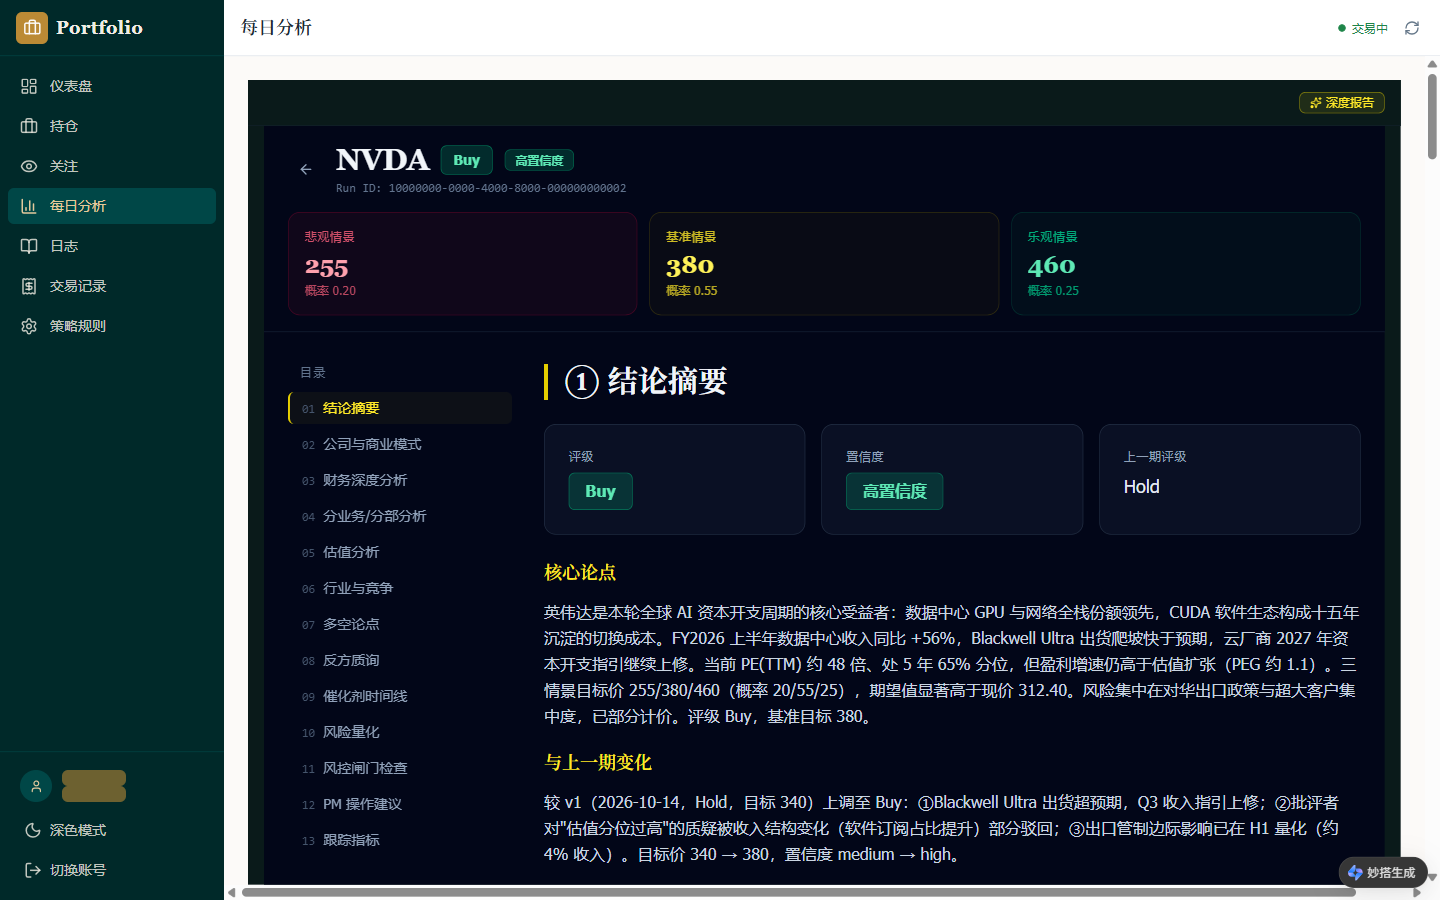
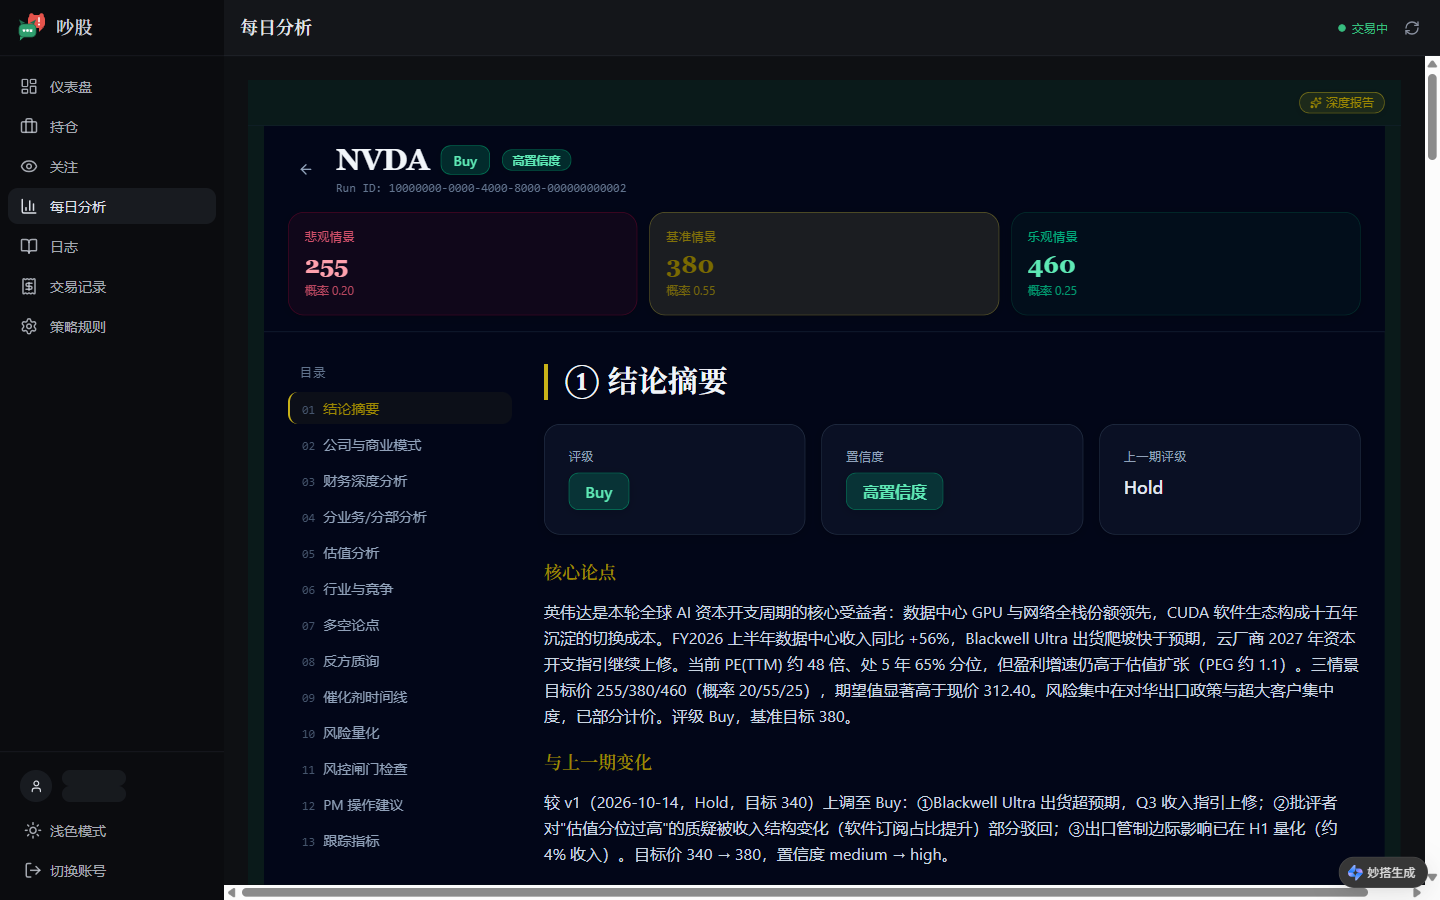
feat(theme): dark-first design system overhaul with Squabble brand language
- Full design-token rewrite: cool gray-blue neutrals replace the
  beige/amber platform palette; monochrome ink primary keeps color
  reserved for market semantics (bull green / bear red)
- Dark is now the first-class default theme (persisted preference
  still honored); light theme refined into a cool-paper palette with
  a light sidebar instead of the heavy dark-teal one
- Lark font stack replaced with Inter + system CJK; tabular numerals
  utility added for financial figures; radius raised to 0.75rem with
  softened layered shadows
- Sidebar brand block: Squabble logo mark + 吵股 wordmark replace the
  generic briefcase/Portfolio header
- RatingBadge carries brand mascots: bull glyph (horns) on bullish
  ratings, bear glyph (round ears) on bearish ones — miniature logo
  bubbles
- README screenshots retaken on the new dark theme

diff --git a/client/src/tailwind-theme.css b/client/src/tailwind-theme.css
@@ -1,138 +1,149 @@
 /**
  * @file client/src/tailwind-theme.css
- * @description Design-token layer (CSS variables) for light/dark themes:
- * colors (background/foreground/muted/border/success/warning/destructive),
- * button/badge outlines, elevation shadows, and radius. Consumed by the
- * Tailwind preset via HSL/OKLCH variable references.
+ * @description Design-token layer (CSS variables) for light/dark themes.
+ *
+ * 吵股 Squabble design language:
+ *  - Monochrome ink primary (near-white on dark, near-black on light) keeps the
+ *    interface calm; color is reserved for market semantics.
+ *  - Bull green / bear red are the brand's semantic pair — use them only for
+ *    market up/down and rating outcomes.
+ *  - Cool gray-blue neutrals (hue 220-222), 0.75rem radius, soft layered
+ *    shadows. Dark is the first-class theme.
  */
 :root {
-  --button-outline: rgba(0,0,0, .10);
-  --badge-outline: rgba(0,0,0, .05);
+  --button-outline: rgba(0, 0, 0, 0.1);
+  --badge-outline: rgba(0, 0, 0, 0.05);
   --opaque-button-border-intensity: -8;
-  --elevate-1: rgba(0,0,0, .03);
-  --elevate-2: rgba(0,0,0, .08);
+  --elevate-1: rgba(0, 0, 0, 0.03);
+  --elevate-2: rgba(0, 0, 0, 0.07);
 
-  --background: hsl(40 33% 98%);
-  --foreground: hsl(210 25% 16%);
+  /* ---- Light: cool paper ---- */
+  --background: hsl(220 20% 97%);
+  --foreground: hsl(221 24% 13%);
   --card: hsl(0 0% 100%);
-  --card-foreground: hsl(210 25% 16%);
+  --card-foreground: hsl(221 24% 13%);
   --popover: hsl(0 0% 100%);
-  --popover-foreground: hsl(210 25% 16%);
-  --primary: hsl(38 56% 47%);
-  --primary-foreground: hsl(40 33% 98%);
-  --secondary: hsl(210 20% 96%);
-  --secondary-foreground: hsl(210 25% 16%);
-  --muted: hsl(210 20% 96%);
-  --muted-foreground: hsl(210 15% 47%);
-  --accent: hsl(38 56% 47%);
-  --accent-foreground: hsl(40 33% 98%);
-  --info: hsl(210 100% 50%);
+  --popover-foreground: hsl(221 24% 13%);
+  --primary: hsl(221 26% 12%);
+  --primary-foreground: hsl(220 25% 98%);
+  --secondary: hsl(220 16% 94%);
+  --secondary-foreground: hsl(221 20% 18%);
+  --muted: hsl(220 16% 94.5%);
+  --muted-foreground: hsl(220 11% 42%);
+  --accent: hsl(220 16% 93.5%);
+  --accent-foreground: hsl(221 24% 13%);
+  --info: hsl(212 90% 48%);
   --info-foreground: hsl(0 0% 100%);
-  --destructive: hsl(0 72% 51%);
+  --destructive: hsl(0 68% 47%);
   --destructive-foreground: hsl(0 0% 100%);
-  --success: hsl(145 63% 32%);
-  --success-foreground: hsl(115 77% 97%);
-  --warning: hsl(26 90% 49%);
-  --warning-foreground: hsl(33 100% 96%);
-  --border: hsl(210 20% 88%);
-  --input: hsl(210 20% 88%);
-  --ring: hsl(38 56% 47%);
-  --chart-1: hsl(38 56% 47%);
-  --chart-2: hsl(174 77% 46%);
-  --chart-3: hsl(145 63% 42%);
-  --chart-4: hsl(0 72% 51%);
-  --chart-5: hsl(26 90% 49%);
+  --success: hsl(152 58% 36%);
+  --success-foreground: hsl(150 60% 97%);
+  --warning: hsl(32 92% 44%);
+  --warning-foreground: hsl(36 100% 97%);
+  --border: hsl(220 15% 89.5%);
+  --input: hsl(220 15% 89.5%);
+  --ring: hsl(221 22% 42%);
+  --chart-1: hsl(152 55% 40%);
+  --chart-2: hsl(215 60% 50%);
+  --chart-3: hsl(32 90% 48%);
+  --chart-4: hsl(0 66% 50%);
+  --chart-5: hsl(265 55% 58%);
 
-  --sidebar: hsl(180 100% 8%);
-  --sidebar-foreground: hsl(40 33% 92%);
-  --sidebar-primary: hsl(38 56% 47%);
-  --sidebar-primary-foreground: hsl(180 100% 8%);
-  --sidebar-accent: hsl(180 100% 14%);
-  --sidebar-accent-foreground: hsl(38 56% 75%);
-  --sidebar-border: hsl(180 100% 14%);
-  --sidebar-ring: hsl(38 56% 47%);
+  /* Light mode uses a light sidebar that sits with the surface, not against it */
+  --sidebar: hsl(220 18% 96%);
+  --sidebar-foreground: hsl(221 18% 24%);
+  --sidebar-primary: hsl(221 26% 12%);
+  --sidebar-primary-foreground: hsl(220 25% 98%);
+  --sidebar-accent: hsl(220 15% 90.5%);
+  --sidebar-accent-foreground: hsl(221 24% 14%);
+  --sidebar-border: hsl(220 15% 89%);
+  --sidebar-ring: hsl(221 22% 42%);
 
-  --primary-border: hsl(from hsl(38 56% 47%) h s calc(l + var(--opaque-button-border-intensity)));
-  --secondary-border: hsl(from hsl(210 20% 96%) h s calc(l + var(--opaque-button-border-intensity)));
-  --destructive-border: hsl(from hsl(0 72% 51%) h s calc(l + var(--opaque-button-border-intensity)));
-  --accent-border: hsl(from hsl(210 20% 96%) h s calc(l + var(--opaque-button-border-intensity)));
-  --muted-border: hsl(from hsl(210 20% 96%) h s calc(l + var(--opaque-button-border-intensity)));
+  --primary-border: hsl(from hsl(221 26% 12%) h s calc(l + var(--opaque-button-border-intensity)));
+  --secondary-border: hsl(from hsl(220 16% 94%) h s calc(l + var(--opaque-button-border-intensity)));
+  --destructive-border: hsl(from hsl(0 68% 47%) h s calc(l + var(--opaque-button-border-intensity)));
+  --accent-border: hsl(from hsl(220 16% 93.5%) h s calc(l + var(--opaque-button-border-intensity)));
+  --muted-border: hsl(from hsl(220 16% 94.5%) h s calc(l + var(--opaque-button-border-intensity)));
 
   --font-sans:
-    'LarkHackSafariFont', 'LarkEmojiFont', 'LarkChineseQuote', '-apple-system',
-    'BlinkMacSystemFont', 'Helvetica Neue', 'Tahoma', 'PingFang SC',
-    'Microsoft Yahei', 'Arial', 'Hiragino Sans GB', 'sans-serif',
+    'Inter', 'Inter var', '-apple-system', 'BlinkMacSystemFont', 'Segoe UI',
+    'PingFang SC', 'HarmonyOS Sans SC', 'MiSans', 'Microsoft YaHei UI',
+    'Microsoft YaHei', 'Noto Sans SC', 'Helvetica Neue', 'Tahoma', 'Arial',
+    'sans-serif',
     'Apple Color Emoji', 'Segoe UI Emoji', 'Segoe UI Symbol', 'Noto Color Emoji';
   --font-serif:
     'Playfair Display', 'Georgia', 'Cambria', 'Times New Roman', Times, serif;
   --font-mono:
     'JetBrains Mono', 'SF Mono', 'Menlo', 'Monaco', 'Consolas', monospace;
 
-  --radius: 0.5rem;
+  --radius: 0.75rem;
   --shadow-x: 0px;
   --shadow-y: 2px;
   --shadow-blur: 12px;
   --shadow-spread: 0px;
   --shadow-opacity: 0.02;
   --shadow-color: #000000;
-  --shadow-2xs: 0px 2px 12px 0px hsl(0 0% 0% / 0.01);
-  --shadow-xs: 0px 2px 12px 0px hsl(0 0% 0% / 0.01);
+  --shadow-2xs: 0px 2px 12px 0px hsl(0 0% 0% / 0.02);
+  --shadow-xs: 0px 2px 12px 0px hsl(0 0% 0% / 0.02);
   --shadow-sm:
-    0px 2px 12px 0px hsl(0 0% 0% / 0.02), 0px 1px 2px -1px hsl(0 0% 0% / 0.02);
+    0px 2px 12px 0px hsl(0 0% 0% / 0.03), 0px 1px 2px -1px hsl(0 0% 0% / 0.03);
   --shadow:
-    0px 2px 12px 0px hsl(0 0% 0% / 0.02), 0px 1px 2px -1px hsl(0 0% 0% / 0.02);
+    0px 2px 12px 0px hsl(0 0% 0% / 0.03), 0px 1px 2px -1px hsl(0 0% 0% / 0.03);
   --shadow-md:
-    0px 2px 12px 0px hsl(0 0% 0% / 0.02), 0px 2px 4px -1px hsl(0 0% 0% / 0.02);
+    0px 2px 12px 0px hsl(0 0% 0% / 0.03), 0px 2px 4px -1px hsl(0 0% 0% / 0.03);
   --shadow-lg:
-    0px 2px 12px 0px hsl(0 0% 0% / 0.02), 0px 4px 6px -1px hsl(0 0% 0% / 0.02);
+    0px 2px 12px 0px hsl(0 0% 0% / 0.04), 0px 4px 6px -1px hsl(0 0% 0% / 0.03);
   --shadow-xl:
-    0px 2px 12px 0px hsl(0 0% 0% / 0.02), 0px 8px 10px -1px hsl(0 0% 0% / 0.02);
-  --shadow-2xl: 0px 2px 12px 0px hsl(0 0% 0% / 0.05);
+    0px 2px 12px 0px hsl(0 0% 0% / 0.04), 0px 8px 10px -1px hsl(0 0% 0% / 0.03);
+  --shadow-2xl: 0px 2px 12px 0px hsl(0 0% 0% / 0.06);
   --tracking-normal: 0em;
   --spacing: 0.25rem;
 }
 
 .dark {
-  --background: hsl(180 100% 4%);
-  --foreground: hsl(40 20% 90%);
-  --card: hsl(180 100% 7%);
-  --card-foreground: hsl(40 20% 90%);
-  --popover: hsl(180 100% 10%);
-  --popover-foreground: hsl(40 20% 90%);
-  --primary: hsl(38 56% 55%);
-  --primary-foreground: hsl(180 100% 6%);
-  --secondary: hsl(180 100% 12%);
-  --secondary-foreground: hsl(40 20% 90%);
-  --muted: hsl(180 100% 12%);
-  --muted-foreground: hsl(40 15% 60%);
-  --accent: hsl(38 56% 55%);
-  --accent-foreground: hsl(180 100% 6%);
-  --destructive: hsl(0 65% 55%);
+  /* ---- Dark (first-class): cool charcoal ---- */
+  --background: hsl(222 16% 6.5%);
+  --foreground: hsl(220 18% 91%);
+  --card: hsl(222 15% 9%);
+  --card-foreground: hsl(220 18% 91%);
+  --popover: hsl(222 15% 11%);
+  --popover-foreground: hsl(220 18% 91%);
+  --primary: hsl(220 18% 93%);
+  --primary-foreground: hsl(222 18% 9%);
+  --secondary: hsl(222 13% 14%);
+  --secondary-foreground: hsl(220 15% 88%);
+  --muted: hsl(222 13% 13%);
+  --muted-foreground: hsl(220 10% 58%);
+  --accent: hsl(222 13% 16%);
+  --accent-foreground: hsl(220 18% 91%);
+  --info: hsl(210 85% 62%);
+  --info-foreground: hsl(222 18% 9%);
+  --destructive: hsl(0 66% 58%);
   --destructive-foreground: hsl(0 0% 98%);
-  --success: hsl(145 63% 45%);
-  --success-foreground: hsl(115 77% 97%);
-  --warning: hsl(26 90% 55%);
-  --warning-foreground: hsl(33 100% 96%);
-  --border: hsl(180 100% 16%);
-  --input: hsl(180 100% 16%);
-  --ring: hsl(38 56% 55%);
-  --chart-1: hsl(38 56% 55%);
-  --chart-2: hsl(174 77% 55%);
-  --chart-3: hsl(145 63% 50%);
-  --chart-4: hsl(0 65% 55%);
-  --chart-5: hsl(26 90% 55%);
+  --success: hsl(152 55% 48%);
+  --success-foreground: hsl(150 60% 97%);
+  --warning: hsl(36 92% 55%);
+  --warning-foreground: hsl(36 100% 97%);
+  --border: hsl(222 12% 16%);
+  --input: hsl(222 12% 16%);
+  --ring: hsl(220 15% 70%);
+  --chart-1: hsl(152 55% 48%);
+  --chart-2: hsl(215 55% 60%);
+  --chart-3: hsl(36 92% 55%);
+  --chart-4: hsl(0 66% 58%);
+  --chart-5: hsl(265 55% 68%);
 
-  --sidebar: hsl(180 100% 6%);
-  --sidebar-foreground: hsl(40 20% 88%);
-  --sidebar-primary: hsl(38 56% 55%);
-  --sidebar-primary-foreground: hsl(180 100% 6%);
-  --sidebar-accent: hsl(180 100% 12%);
-  --sidebar-accent-foreground: hsl(38 56% 70%);
-  --sidebar-border: hsl(180 100% 14%);
-  --sidebar-ring: hsl(38 56% 55%);
+  --sidebar: hsl(222 16% 5%);
+  --sidebar-foreground: hsl(220 14% 82%);
+  --sidebar-primary: hsl(220 18% 93%);
+  --sidebar-primary-foreground: hsl(222 18% 9%);
+  --sidebar-accent: hsl(222 13% 11%);
+  --sidebar-accent-foreground: hsl(220 18% 88%);
+  --sidebar-border: hsl(222 12% 13%);
+  --sidebar-ring: hsl(220 15% 70%);
 
-  --elevate-1: rgba(255,255,255, .04);
-  --elevate-2: rgba(255,255,255, .08);
+  --elevate-1: rgba(255, 255, 255, 0.04);
+  --elevate-2: rgba(255, 255, 255, 0.08);
   --shadow-2xs: 0px 2px 12px 0px hsl(0 0% 0% / 0.15);
   --shadow-xs: 0px 2px 12px 0px hsl(0 0% 0% / 0.15);
   --shadow-sm:
@@ -265,7 +276,7 @@
   }
 
   .hover-elevate-2:hover:not(.no-default-hover-elevate)::after,
-  .active-elevate-2:active:not(.no-default-hover-elevate)::after {
+  .active-elevate-2:active:not(.no-default-active-elevate)::after {
     background-color: var(--elevate-2);
   }
 
@@ -283,6 +294,12 @@
 
   .font-mono-nums {
     font-family: var(--font-mono);
+    font-variant-numeric: tabular-nums;
+  }
+
+  /* All financial figures align in columns, in every font */
+  .font-sans-nums {
+    font-family: var(--font-sans);
     font-variant-numeric: tabular-nums;
   }
 

diff --git a/client/src/components/MultiAgent/RatingBadge.tsx b/client/src/components/MultiAgent/RatingBadge.tsx
@@ -1,10 +1,12 @@
 /**
- * RatingBadge - renders the analyst rating as a colored outline badge.
+ * RatingBadge - renders the analyst rating as a colored outline badge with
+ * brand mascots: bullish ratings carry the bull glyph (horns), bearish ones
+ * the bear glyph (round ears) — miniatures of the Squabble logo bubbles.
  *
  * Color semantics mirror sell-side rating conventions:
- *   - Strong Buy / Buy   -> emerald (bullish)
- *   - Hold               -> blue
- *   - Sell / Strong Sell -> rose/red (bearish)
+ *   - Strong Buy / Buy   -> bull green (bullish)
+ *   - Hold               -> blue (neutral)
+ *   - Sell / Strong Sell -> bear red (bearish)
  *   - Watch              -> slate (no actionable call yet)
  */
 import { Badge } from '@/components/ui/badge';
@@ -29,17 +31,59 @@ const ratingStyles: Record<AgentRating, string> = {
 
 /** Compact padding/typography presets for the two supported sizes */
 const sizeClasses: Record<'sm' | 'md', string> = {
-  sm: 'text-xs px-2 py-0 h-5',
-  md: 'text-sm px-2.5 py-0.5 h-6',
+  sm: 'text-xs px-2 py-0 h-5 gap-1',
+  md: 'text-sm px-2.5 py-0.5 h-6 gap-1.5',
 };
 
-/** Renders an outline Badge colored by ratingStyles; displays the raw rating string. */
+/** Bull glyph: the logo's bull bubble in miniature — horns plus rounded head. */
+function BullGlyph({ size = 12 }: { size?: number }) {
+  return (
+    <svg
+      viewBox="0 0 16 16"
+      width={size}
+      height={size}
+      fill="currentColor"
+      aria-hidden="true"
+    >
+      <path d="M4.4 4.2 L2.9 1.2 L6.4 3 Z" />
+      <path d="M11.6 4.2 L13.1 1.2 L9.6 3 Z" />
+      <rect x="1.6" y="3.6" width="12.8" height="9.2" rx="3.6" />
+    </svg>
+  );
+}
+
+/** Bear glyph: the logo's bear bubble in miniature — round ears plus rounded head. */
+function BearGlyph({ size = 12 }: { size?: number }) {
+  return (
+    <svg
+      viewBox="0 0 16 16"
+      width={size}
+      height={size}
+      fill="currentColor"
+      aria-hidden="true"
+    >
+      <circle cx="4.4" cy="4" r="1.9" />
+      <circle cx="11.6" cy="4" r="1.9" />
+      <rect x="1.6" y="3.6" width="12.8" height="9.2" rx="3.6" />
+    </svg>
+  );
+}
+
+/** Which mascot (if any) belongs to a rating. */
+function ratingGlyph(rating: AgentRating) {
+  if (rating === 'Buy' || rating === 'Strong Buy') return <BullGlyph />;
+  if (rating === 'Sell' || rating === 'Strong Sell') return <BearGlyph />;
+  return null;
+}
+
+/** Renders an outline Badge colored by ratingStyles; mascot + raw rating string. */
 function RatingBadge({ rating, size = 'md' }: RatingBadgeProps) {
   return (
     <Badge
       variant="outline"
-      className={`${ratingStyles[rating]} ${sizeClasses[size]} font-medium`}
+      className={`${ratingStyles[rating]} ${sizeClasses[size]} inline-flex items-center font-medium`}
     >
+      {ratingGlyph(rating)}
       {rating}
     </Badge>
   );

diff --git a/client/src/components/Layout.tsx b/client/src/components/Layout.tsx
@@ -126,11 +126,9 @@ function Layout() {
         <div className="flex h-full flex-col">
           <div className="flex h-14 items-center justify-between border-b border-sidebar-border px-4">
             <div className="flex items-center gap-2">
-              <div className="flex h-8 w-8 items-center justify-center rounded-md bg-primary text-primary-foreground">
-                <Briefcase size={18} />
-              </div>
+              <img src="/logo.svg" alt="吵股" className="h-8 w-8" />
               <span className="font-serif text-lg font-semibold tracking-wide">
-                Portfolio
+                吵股
               </span>
             </div>
             <button
@@ -216,7 +214,7 @@ function Layout() {
               {navItems.find((item) => {
                 if (item.end) return location.pathname === item.path;
                 return location.pathname.startsWith(item.path);
-              })?.label || 'Portfolio Terminal'}
+              })?.label || '吵股'}
             </div>
           </div>
           <MarketStatusIndicator />

diff --git a/client/src/hooks/use-theme.ts b/client/src/hooks/use-theme.ts
@@ -16,16 +16,14 @@ type Theme = 'light' | 'dark';
 const THEME_KEY = 'pt-theme';
 
 /**
- * Resolve the initial theme: stored value wins, otherwise fall back to the
- * OS color-scheme preference. SSR-safe (returns 'light' on the server).
+ * Resolve the initial theme: stored value wins, otherwise default to the
+ * first-class dark theme. SSR-safe (returns 'dark' on the server).
  */
 function getInitialTheme(): Theme {
-  if (typeof window === 'undefined') return 'light';
+  if (typeof window === 'undefined') return 'dark';
   const stored = localStorage.getItem(THEME_KEY);
   if (stored === 'dark' || stored === 'light') return stored;
-  return window.matchMedia('(prefers-color-scheme: dark)').matches
-    ? 'dark'
-    : 'light';
+  return 'dark';
 }
 
 /**
